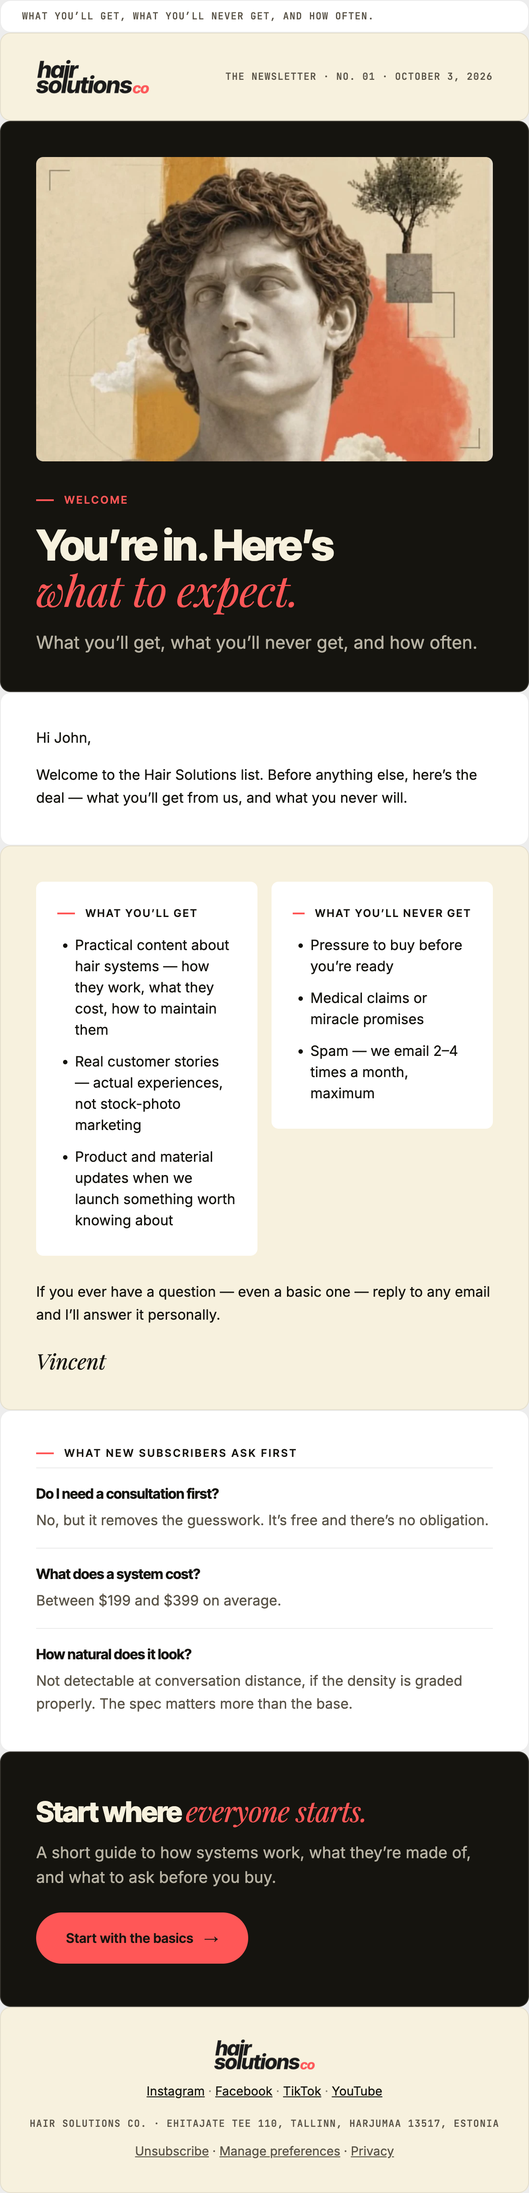
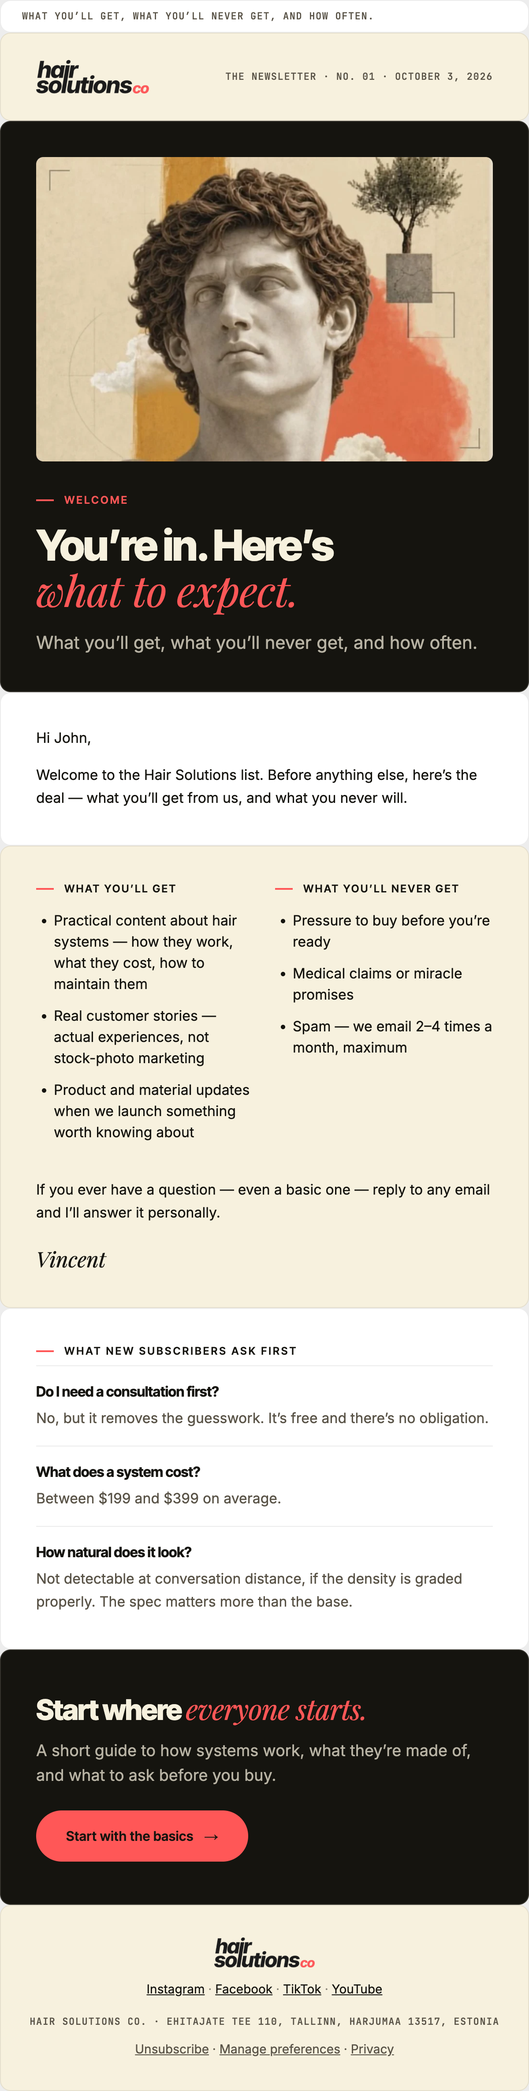
W-1 as Custom Liquid sections; remove white cards; record welcome workflows; add sections-only build rule

diff --git a/templates/email-blocks/w-1-get-never-get/section.html b/templates/email-blocks/w-1-get-never-get/section.html
@@ -2,10 +2,10 @@
 <table role="presentation" class="shell" width="100%" cellpadding="0" cellspacing="0" border="0" style="width:100%;max-width:600px;">
 <tr><td style="padding:0;">
 <table role="presentation" width="100%" cellpadding="0" cellspacing="0" border="0" style="border-collapse:separate;background-color:#f7f1de;border:1px solid #e5dfcd;border-radius:12px;">
-<tr><td class="pad" style="padding:40px;"><table role="presentation" width="100%" cellpadding="0" cellspacing="0" border="0"><tr><td class="stack" width="50%" valign="top" style="width:50%;vertical-align:top;padding:0 8px 0 0px;"><table role="presentation" width="100%" cellpadding="0" cellspacing="0" border="0" style="border-collapse:separate;background-color:#ffffff;border-radius:8px;"><tr><td style="padding:28px 24px 16px 24px;"><table role="presentation" cellpadding="0" cellspacing="0" border="0" style="margin:0 0 16px 0;">
+<tr><td class="pad" style="padding:40px;"><table role="presentation" width="100%" cellpadding="0" cellspacing="0" border="0"><tr><td class="stack" width="50%" valign="top" style="width:50%;vertical-align:top;padding:0 12px 0 0px;"><table role="presentation" width="100%" cellpadding="0" cellspacing="0" border="0"><tr><td style="padding:0;"><table role="presentation" cellpadding="0" cellspacing="0" border="0" style="margin:0 0 16px 0;">
 <tr><td width="20" style="width:20px;vertical-align:middle;"><div style="height:2px;line-height:2px;font-size:0;background-color:#ff5757;">&nbsp;</div></td>
 <td style="padding-left:12px;font-family:'Inter Tight',Arial,Helvetica,sans-serif;font-size:12px;line-height:16px;font-weight:600;letter-spacing:1.6px;text-transform:uppercase;color:#15140f;white-space:nowrap;">What you&rsquo;ll get</td></tr>
-</table><ul style="margin:0;padding:0 0 0 20px;"><li style="margin:0 0 12px 0;font-family:'Inter',Arial,Helvetica,sans-serif;font-size:16px;line-height:24px;color:#15140f;">Practical content about hair systems &mdash; how they work, what they cost, how to maintain them</li><li style="margin:0 0 12px 0;font-family:'Inter',Arial,Helvetica,sans-serif;font-size:16px;line-height:24px;color:#15140f;">Real customer stories &mdash; actual experiences, not stock-photo marketing</li><li style="margin:0 0 12px 0;font-family:'Inter',Arial,Helvetica,sans-serif;font-size:16px;line-height:24px;color:#15140f;">Product and material updates when we launch something worth knowing about</li></ul></td></tr></table></td><td class="stack" width="50%" valign="top" style="width:50%;vertical-align:top;padding:0 0px 0 8px;"><table role="presentation" width="100%" cellpadding="0" cellspacing="0" border="0" style="border-collapse:separate;background-color:#ffffff;border-radius:8px;"><tr><td style="padding:28px 24px 16px 24px;"><table role="presentation" cellpadding="0" cellspacing="0" border="0" style="margin:0 0 16px 0;">
+</table><ul style="margin:0;padding:0 0 0 20px;"><li style="margin:0 0 12px 0;font-family:'Inter',Arial,Helvetica,sans-serif;font-size:16px;line-height:24px;color:#15140f;">Practical content about hair systems &mdash; how they work, what they cost, how to maintain them</li><li style="margin:0 0 12px 0;font-family:'Inter',Arial,Helvetica,sans-serif;font-size:16px;line-height:24px;color:#15140f;">Real customer stories &mdash; actual experiences, not stock-photo marketing</li><li style="margin:0 0 12px 0;font-family:'Inter',Arial,Helvetica,sans-serif;font-size:16px;line-height:24px;color:#15140f;">Product and material updates when we launch something worth knowing about</li></ul></td></tr></table></td><td class="stack" width="50%" valign="top" style="width:50%;vertical-align:top;padding:0 0px 0 12px;"><table role="presentation" width="100%" cellpadding="0" cellspacing="0" border="0"><tr><td style="padding:0;"><table role="presentation" cellpadding="0" cellspacing="0" border="0" style="margin:0 0 16px 0;">
 <tr><td width="20" style="width:20px;vertical-align:middle;"><div style="height:2px;line-height:2px;font-size:0;background-color:#ff5757;">&nbsp;</div></td>
 <td style="padding-left:12px;font-family:'Inter Tight',Arial,Helvetica,sans-serif;font-size:12px;line-height:16px;font-weight:600;letter-spacing:1.6px;text-transform:uppercase;color:#15140f;white-space:nowrap;">What you&rsquo;ll never get</td></tr>
 </table><ul style="margin:0;padding:0 0 0 20px;"><li style="margin:0 0 12px 0;font-family:'Inter',Arial,Helvetica,sans-serif;font-size:16px;line-height:24px;color:#15140f;">Pressure to buy before you&rsquo;re ready</li><li style="margin:0 0 12px 0;font-family:'Inter',Arial,Helvetica,sans-serif;font-size:16px;line-height:24px;color:#15140f;">Medical claims or miracle promises</li><li style="margin:0 0 12px 0;font-family:'Inter',Arial,Helvetica,sans-serif;font-size:16px;line-height:24px;color:#15140f;">Spam &mdash; we email 2&ndash;4 times a month, maximum</li></ul></td></tr></table></td></tr></table><div style="height:28px;line-height:28px;font-size:0;">&nbsp;</div><p style="margin:0 0 24px 0;font-family:'Inter',Arial,Helvetica,sans-serif;font-size:16px;line-height:26px;font-weight:400;color:#15140f;text-align:left;">If you ever have a question &mdash; even a basic one &mdash; reply to any email and I&rsquo;ll answer it personally.</p><p style="margin:0 0 0px 0;font-family:'Playfair Display',Georgia,'Times New Roman',serif;font-size:24px;line-height:30px;font-weight:400;color:#15140f;text-align:left;font-style:italic;">Vincent</p></td></tr>

diff --git a/templates/emails/w-1-welcome/custom-liquid/05.html b/templates/emails/w-1-welcome/custom-liquid/05.html
@@ -1,0 +1,15 @@
+<table role="presentation" width="100%" cellpadding="0" cellspacing="0" border="0" style="background-color:transparent;"><tr><td align="center" style="padding:0;">
+<table role="presentation" class="shell" width="100%" cellpadding="0" cellspacing="0" border="0" style="width:100%;max-width:600px;">
+<tr><td style="padding:0;">
+<table role="presentation" width="100%" cellpadding="0" cellspacing="0" border="0" style="border-collapse:separate;background-color:#f7f1de;border:1px solid #e5dfcd;border-radius:12px;">
+<tr><td class="pad" style="padding:40px;"><table role="presentation" width="100%" cellpadding="0" cellspacing="0" border="0"><tr><td class="stack" width="50%" valign="top" style="width:50%;vertical-align:top;padding:0 12px 0 0px;"><table role="presentation" width="100%" cellpadding="0" cellspacing="0" border="0"><tr><td style="padding:0;"><table role="presentation" cellpadding="0" cellspacing="0" border="0" style="margin:0 0 16px 0;">
+<tr><td width="20" style="width:20px;vertical-align:middle;"><div style="height:2px;line-height:2px;font-size:0;background-color:#ff5757;">&nbsp;</div></td>
+<td style="padding-left:12px;font-family:'Inter Tight',Arial,Helvetica,sans-serif;font-size:12px;line-height:16px;font-weight:600;letter-spacing:1.6px;text-transform:uppercase;color:#15140f;white-space:nowrap;">What you&rsquo;ll get</td></tr>
+</table><ul style="margin:0;padding:0 0 0 20px;"><li style="margin:0 0 12px 0;font-family:'Inter',Arial,Helvetica,sans-serif;font-size:16px;line-height:24px;color:#15140f;">Practical content about hair systems &mdash; how they work, what they cost, how to maintain them</li><li style="margin:0 0 12px 0;font-family:'Inter',Arial,Helvetica,sans-serif;font-size:16px;line-height:24px;color:#15140f;">Real customer stories &mdash; actual experiences, not stock-photo marketing</li><li style="margin:0 0 12px 0;font-family:'Inter',Arial,Helvetica,sans-serif;font-size:16px;line-height:24px;color:#15140f;">Product and material updates when we launch something worth knowing about</li></ul></td></tr></table></td><td class="stack" width="50%" valign="top" style="width:50%;vertical-align:top;padding:0 0px 0 12px;"><table role="presentation" width="100%" cellpadding="0" cellspacing="0" border="0"><tr><td style="padding:0;"><table role="presentation" cellpadding="0" cellspacing="0" border="0" style="margin:0 0 16px 0;">
+<tr><td width="20" style="width:20px;vertical-align:middle;"><div style="height:2px;line-height:2px;font-size:0;background-color:#ff5757;">&nbsp;</div></td>
+<td style="padding-left:12px;font-family:'Inter Tight',Arial,Helvetica,sans-serif;font-size:12px;line-height:16px;font-weight:600;letter-spacing:1.6px;text-transform:uppercase;color:#15140f;white-space:nowrap;">What you&rsquo;ll never get</td></tr>
+</table><ul style="margin:0;padding:0 0 0 20px;"><li style="margin:0 0 12px 0;font-family:'Inter',Arial,Helvetica,sans-serif;font-size:16px;line-height:24px;color:#15140f;">Pressure to buy before you&rsquo;re ready</li><li style="margin:0 0 12px 0;font-family:'Inter',Arial,Helvetica,sans-serif;font-size:16px;line-height:24px;color:#15140f;">Medical claims or miracle promises</li><li style="margin:0 0 12px 0;font-family:'Inter',Arial,Helvetica,sans-serif;font-size:16px;line-height:24px;color:#15140f;">Spam &mdash; we email 2&ndash;4 times a month, maximum</li></ul></td></tr></table></td></tr></table><div style="height:28px;line-height:28px;font-size:0;">&nbsp;</div><p style="margin:0 0 24px 0;font-family:'Inter',Arial,Helvetica,sans-serif;font-size:16px;line-height:26px;font-weight:400;color:#15140f;text-align:left;">If you ever have a question &mdash; even a basic one &mdash; reply to any email and I&rsquo;ll answer it personally.</p><p style="margin:0 0 0px 0;font-family:'Playfair Display',Georgia,'Times New Roman',serif;font-size:24px;line-height:30px;font-weight:400;color:#15140f;text-align:left;font-style:italic;">Vincent</p></td></tr>
+</table>
+</td></tr>
+</table>
+</td></tr></table>

diff --git a/templates/emails/w-1-welcome/custom-liquid/06.html b/templates/emails/w-1-welcome/custom-liquid/06.html
@@ -1,0 +1,16 @@
+<table role="presentation" width="100%" cellpadding="0" cellspacing="0" border="0" style="background-color:transparent;"><tr><td align="center" style="padding:0;">
+<table role="presentation" class="shell" width="100%" cellpadding="0" cellspacing="0" border="0" style="width:100%;max-width:600px;">
+<tr><td style="padding:0;">
+<table role="presentation" width="100%" cellpadding="0" cellspacing="0" border="0" style="border-collapse:separate;background-color:#ffffff;border:1px solid #ececec;border-radius:12px;">
+<tr><td class="pad" style="padding:40px 40px 22px 40px;"><table role="presentation" cellpadding="0" cellspacing="0" border="0" style="margin:0 0 8px 0;">
+<tr><td width="20" style="width:20px;vertical-align:middle;"><div style="height:2px;line-height:2px;font-size:0;background-color:#ff5757;">&nbsp;</div></td>
+<td style="padding-left:12px;font-family:'Inter Tight',Arial,Helvetica,sans-serif;font-size:12px;line-height:16px;font-weight:600;letter-spacing:2px;text-transform:uppercase;color:#15140f;white-space:nowrap;">What new subscribers ask first</td></tr>
+</table><table role="presentation" width="100%" cellpadding="0" cellspacing="0" border="0" style="border-collapse:collapse;">
+<tr><td style="padding:18px 0 18px 0;border-top:1px solid #ececec;"><p style="margin:0 0 6px 0;font-family:'Inter Tight',Arial,Helvetica,sans-serif;font-size:16px;line-height:22px;font-weight:700;letter-spacing:-0.3px;color:#15140f;text-align:left;">Do I need a consultation first?</p><p style="margin:0;font-family:'Inter',Arial,Helvetica,sans-serif;font-size:16px;line-height:26px;font-weight:400;color:#5a5448;text-align:left;">No, but it removes the guesswork. It&rsquo;s free and there&rsquo;s no obligation.</p></td></tr>
+<tr><td style="padding:18px 0 18px 0;border-top:1px solid #ececec;"><p style="margin:0 0 6px 0;font-family:'Inter Tight',Arial,Helvetica,sans-serif;font-size:16px;line-height:22px;font-weight:700;letter-spacing:-0.3px;color:#15140f;text-align:left;">What does a system cost?</p><p style="margin:0;font-family:'Inter',Arial,Helvetica,sans-serif;font-size:16px;line-height:26px;font-weight:400;color:#5a5448;text-align:left;">Between $199 and $399 on average.</p></td></tr>
+<tr><td style="padding:18px 0 18px 0;border-top:1px solid #ececec;"><p style="margin:0 0 6px 0;font-family:'Inter Tight',Arial,Helvetica,sans-serif;font-size:16px;line-height:22px;font-weight:700;letter-spacing:-0.3px;color:#15140f;text-align:left;">How natural does it look?</p><p style="margin:0;font-family:'Inter',Arial,Helvetica,sans-serif;font-size:16px;line-height:26px;font-weight:400;color:#5a5448;text-align:left;">Not detectable at conversation distance, if the density is graded properly. The spec matters more than the base.</p></td></tr>
+</table></td></tr>
+</table>
+</td></tr>
+</table>
+</td></tr></table>

diff --git a/templates/emails/w-1-welcome/custom-liquid/08.html b/templates/emails/w-1-welcome/custom-liquid/08.html
@@ -1,0 +1,9 @@
+<table role="presentation" width="100%" cellpadding="0" cellspacing="0" border="0" style="background-color:transparent;"><tr><td align="center" style="padding:0;">
+<table role="presentation" class="shell" width="100%" cellpadding="0" cellspacing="0" border="0" style="width:100%;max-width:600px;">
+<tr><td style="padding:0;">
+<table role="presentation" width="100%" cellpadding="0" cellspacing="0" border="0" style="border-collapse:separate;background-color:#f7f1de;border:1px solid #e5dfcd;border-radius:12px;">
+<tr><td class="pad-sm" style="padding:36px 24px 36px 24px;"><img src="https://cdn.shopify.com/s/files/1/0276/9115/5508/files/hsc-email-logo-ink.png" width="114" height="34" alt="Hair Solutions Co." style="display:block;margin:0 auto 14px auto;border:0;width:114px;height:34px;"><p style="margin:0 0 18px 0;font-family:'Inter',Arial,Helvetica,sans-serif;font-size:14px;line-height:21px;font-weight:400;color:#15140f;text-align:center;"><a href="https://www.instagram.com/hairsolutions_co" target="_blank" style="color:#15140f;text-decoration:underline;">Instagram</a> <span style="color:#15140f;opacity:0.5;">&middot;</span> <a href="https://www.facebook.com/hairsolutions.company" target="_blank" style="color:#15140f;text-decoration:underline;">Facebook</a> <span style="color:#15140f;opacity:0.5;">&middot;</span> <a href="https://www.tiktok.com/@hairsolutionsco" target="_blank" style="color:#15140f;text-decoration:underline;">TikTok</a> <span style="color:#15140f;opacity:0.5;">&middot;</span> <a href="https://www.youtube.com/@hairsolutions_co" target="_blank" style="color:#15140f;text-decoration:underline;">YouTube</a></p><p style="margin:0 0 12px 0;font-family:'JetBrains Mono','Courier New',monospace;font-size:11px;line-height:17px;font-weight:500;letter-spacing:0.8px;text-transform:uppercase;color:#5a5448;text-align:center;">Hair Solutions Co. &middot; Ehitajate tee 110, Tallinn, Harjumaa 13517, Estonia</p><p style="margin:0;font-family:'Inter',Arial,Helvetica,sans-serif;font-size:14px;line-height:21px;font-weight:400;color:#5a5448;text-align:center;"><a href="{{ unsubscribe_url }}" target="_blank" style="color:#5a5448;text-decoration:underline;">Unsubscribe</a> &middot; <a href="https://hairsolutions.co/pages/edit-notifications" target="_blank" style="color:#5a5448;text-decoration:underline;">Manage preferences</a> &middot; <a href="https://hairsolutions.co/policies/privacy-policy" target="_blank" style="color:#5a5448;text-decoration:underline;">Privacy</a></p><!-- {{ unsubscribe_link }} --></td></tr>
+</table>
+</td></tr>
+</table>
+</td></tr></table>

diff --git a/templates/emails/w-1-welcome/custom-liquid/01.html b/templates/emails/w-1-welcome/custom-liquid/01.html
@@ -1,0 +1,28 @@
+<link href="https://fonts.googleapis.com/css2?family=Inter:wght@400;600;700&amp;family=Inter+Tight:wght@600;700;800&amp;family=JetBrains+Mono:wght@500;700&amp;family=Playfair+Display:ital,wght@1,400;1,500&amp;display=swap" rel="stylesheet">
+<style>
+  body { margin:0 !important; padding:0 !important; background-color:transparent; -webkit-text-size-adjust:100%; -ms-text-size-adjust:100%; }
+  table, td { mso-table-lspace:0pt; mso-table-rspace:0pt; }
+  img { -ms-interpolation-mode:bicubic; }
+  a { text-decoration-skip-ink:auto; }
+  .unsub a { color:#b8b3a4 !important; text-decoration:underline !important; }
+  @media only screen and (max-width:480px) {
+    .shell { width:100% !important; }
+    .pad { padding:32px 22px !important; }
+    .pad-sm { padding-left:16px !important; padding-right:16px !important; }
+    .hero-h { font-size:36px !important; line-height:37px !important; letter-spacing:-1.2px !important; }
+    .btn { width:100% !important; } .btn a { display:block !important; text-align:center !important; }
+    .stack { display:block !important; width:100% !important; padding:0 !important; }
+    .stack-gap { padding-top:20px !important; }
+    .fluid { width:100% !important; height:auto !important; }
+    .pad-copy { padding:0 4px !important; }
+  }
+</style>
+<table role="presentation" width="100%" cellpadding="0" cellspacing="0" border="0" style="background-color:transparent;"><tr><td align="center" style="padding:0;">
+<table role="presentation" class="shell" width="100%" cellpadding="0" cellspacing="0" border="0" style="width:100%;max-width:600px;">
+<tr><td style="padding:0;">
+<table role="presentation" width="100%" cellpadding="0" cellspacing="0" border="0" style="border-collapse:separate;background-color:#ffffff;border:1px solid #ececec;border-radius:12px;">
+<tr><td class="pad-sm" style="padding:9px 24px;"><table role="presentation" width="100%" cellpadding="0" cellspacing="0" border="0"><tr><td style="font-family:'JetBrains Mono','Courier New',monospace;font-size:11px;line-height:17px;letter-spacing:0.8px;text-transform:uppercase;color:#5a5448;vertical-align:middle;">What you&rsquo;ll get, what you&rsquo;ll never get, and how often.</td></tr></table></td></tr>
+</table>
+</td></tr>
+</table>
+</td></tr></table>

diff --git a/templates/emails/w-1-welcome/custom-liquid/03.html b/templates/emails/w-1-welcome/custom-liquid/03.html
@@ -1,0 +1,12 @@
+<table role="presentation" width="100%" cellpadding="0" cellspacing="0" border="0" style="background-color:transparent;"><tr><td align="center" style="padding:0;">
+<table role="presentation" class="shell" width="100%" cellpadding="0" cellspacing="0" border="0" style="width:100%;max-width:600px;">
+<tr><td style="padding:0;">
+<table role="presentation" width="100%" cellpadding="0" cellspacing="0" border="0" style="border-collapse:separate;background-color:#15140f;border:1px solid #35332c;border-radius:12px;">
+<tr><td class="pad" style="padding:40px;"><img src="https://cdn.shopify.com/s/files/1/0276/9115/5508/files/hsc-email-w1-hero-marble.jpg" width="518" height="345" alt="Marble bust with curly hair against a cream, coral and ochre collage" style="display:block;width:518px;height:345px;border:0;border-radius:8px;"><div style="height:36px;line-height:36px;font-size:0;">&nbsp;</div><table role="presentation" cellpadding="0" cellspacing="0" border="0" style="margin:0 0 18px 0;">
+<tr><td width="20" style="width:20px;vertical-align:middle;"><div style="height:2px;line-height:2px;font-size:0;background-color:#ff5757;">&nbsp;</div></td>
+<td style="padding-left:12px;font-family:'Inter Tight',Arial,Helvetica,sans-serif;font-size:12px;line-height:16px;font-weight:600;letter-spacing:2px;text-transform:uppercase;color:#ff5757;white-space:nowrap;">Welcome</td></tr>
+</table><h1 class="hero-h" style="margin:0 0 18px 0;font-family:'Inter Tight',Arial,Helvetica,sans-serif;font-size:48px;line-height:50px;font-weight:800;letter-spacing:-1.8px;color:#f7f1de;text-align:left;">You&rsquo;re in. Here&rsquo;s<br><span style="font-family:'Playfair Display',Georgia,'Times New Roman',serif;font-style:italic;font-weight:400;color:#ff5757;letter-spacing:-0.5px;font-size:48px;">what to expect.</span></h1><p style="margin:0 0 0px 0;font-family:'Inter',Arial,Helvetica,sans-serif;font-size:20px;line-height:30px;font-weight:400;color:#b8b3a4;text-align:left;">What you&rsquo;ll get, what you&rsquo;ll never get, and how often.</p></td></tr>
+</table>
+</td></tr>
+</table>
+</td></tr></table>

diff --git a/templates/emails/w-1-welcome/custom-liquid/07.html b/templates/emails/w-1-welcome/custom-liquid/07.html
@@ -1,0 +1,12 @@
+<table role="presentation" width="100%" cellpadding="0" cellspacing="0" border="0" style="background-color:transparent;"><tr><td align="center" style="padding:0;">
+<table role="presentation" class="shell" width="100%" cellpadding="0" cellspacing="0" border="0" style="width:100%;max-width:600px;">
+<tr><td style="padding:0;">
+<table role="presentation" width="100%" cellpadding="0" cellspacing="0" border="0" style="border-collapse:separate;background-color:#15140f;border:1px solid #35332c;border-radius:12px;">
+<tr><td class="pad" style="padding:48px 40px 48px 40px;"><h2 style="margin:0 0 14px 0;font-family:'Inter Tight',Arial,Helvetica,sans-serif;font-size:32px;line-height:36px;font-weight:800;letter-spacing:-1px;color:#f7f1de;text-align:left;">Start where <span style="font-family:'Playfair Display',Georgia,'Times New Roman',serif;font-style:italic;font-weight:400;color:#ff5757;letter-spacing:-0.5px;font-size:32px;">everyone starts.</span></h2><p style="margin:0 0 26px 0;font-family:'Inter',Arial,Helvetica,sans-serif;font-size:18px;line-height:28px;font-weight:400;color:#b8b3a4;text-align:left;">A short guide to how systems work, what they&rsquo;re made of, and what to ask before you buy.</p><table role="presentation" class="btn" cellpadding="0" cellspacing="0" border="0" style="border-collapse:separate;margin:0;">
+<tr><td style="border-radius:999px;background-color:#ff5757;">
+<a href="https://hairsolutions.co" target="_blank" style="display:inline-block;padding:0 34px;line-height:58px;font-family:'Inter Tight',Arial,Helvetica,sans-serif;font-size:15px;font-weight:600;letter-spacing:0.3px;color:#15140f;text-decoration:none;border-radius:999px;white-space:nowrap;">Start with the basics<span style="padding-left:12px;font-family:'Inter',Arial,Helvetica,sans-serif;font-size:16px;">&rarr;</span></a>
+</td></tr></table></td></tr>
+</table>
+</td></tr>
+</table>
+</td></tr></table>

diff --git a/templates/emails/w-1-welcome/custom-liquid/02.html b/templates/emails/w-1-welcome/custom-liquid/02.html
@@ -1,0 +1,9 @@
+<table role="presentation" width="100%" cellpadding="0" cellspacing="0" border="0" style="background-color:transparent;"><tr><td align="center" style="padding:0;">
+<table role="presentation" class="shell" width="100%" cellpadding="0" cellspacing="0" border="0" style="width:100%;max-width:600px;">
+<tr><td style="padding:0;">
+<table role="presentation" width="100%" cellpadding="0" cellspacing="0" border="0" style="border-collapse:separate;background-color:#f7f1de;border:1px solid #e5dfcd;border-radius:12px;">
+<tr><td class="pad" style="padding:30px 40px;"><table role="presentation" width="100%" cellpadding="0" cellspacing="0" border="0"><tr><td valign="middle" style="vertical-align:middle;"><img src="https://cdn.shopify.com/s/files/1/0276/9115/5508/files/hsc-email-logo-ink.png" width="128" height="38" alt="Hair Solutions Co." style="display:block;border:0;width:128px;height:38px;"></td><td align="right" valign="middle" style="vertical-align:middle;padding-left:16px;font-family:'JetBrains Mono','Courier New',monospace;font-size:11px;line-height:17px;font-weight:500;letter-spacing:0.8px;text-transform:uppercase;color:#5a5448;text-align:right;">The newsletter &middot; No. 01 &middot; {{ "now" | date: "%B %-d, %Y" }}</td></tr></table></td></tr>
+</table>
+</td></tr>
+</table>
+</td></tr></table>

diff --git a/templates/emails/w-1-welcome/custom-liquid/04.html b/templates/emails/w-1-welcome/custom-liquid/04.html
@@ -1,0 +1,9 @@
+<table role="presentation" width="100%" cellpadding="0" cellspacing="0" border="0" style="background-color:transparent;"><tr><td align="center" style="padding:0;">
+<table role="presentation" class="shell" width="100%" cellpadding="0" cellspacing="0" border="0" style="width:100%;max-width:600px;">
+<tr><td style="padding:0;">
+<table role="presentation" width="100%" cellpadding="0" cellspacing="0" border="0" style="border-collapse:separate;background-color:#ffffff;border:1px solid #ececec;border-radius:12px;">
+<tr><td class="pad" style="padding:38px 40px 40px 40px;"><p style="margin:0 0 16px 0;font-family:'Inter',Arial,Helvetica,sans-serif;font-size:16px;line-height:26px;font-weight:400;color:#15140f;text-align:left;">Hi {{ customer.first_name | default: "there" }},</p><p style="margin:0 0 0px 0;font-family:'Inter',Arial,Helvetica,sans-serif;font-size:16px;line-height:26px;font-weight:400;color:#15140f;text-align:left;">Welcome to the Hair Solutions list. Before anything else, here&rsquo;s the deal &mdash; what you&rsquo;ll get from us, and what you never will.</p></td></tr>
+</table>
+</td></tr>
+</table>
+</td></tr></table>

diff --git a/templates/email-blocks/w-1-get-never-get/README.md b/templates/email-blocks/w-1-get-never-get/README.md
@@ -10,8 +10,12 @@
 | Liquid variables | — |
 | Shopify status | draft |
 | Placeholders | no |
-| Characters | 4170 |
+| Characters | 3982 |
 | Used by | [W-1](../../emails/w-1-welcome/) |
+
+## Preview
+
+<img src="preview.png" width="600" alt="">
 
 ## HTML
 
@@ -22,10 +26,10 @@ Source: [`section.html`](section.html). Copy from here or from the raw file.
 <table role="presentation" class="shell" width="100%" cellpadding="0" cellspacing="0" border="0" style="width:100%;max-width:600px;">
 <tr><td style="padding:0;">
 <table role="presentation" width="100%" cellpadding="0" cellspacing="0" border="0" style="border-collapse:separate;background-color:#f7f1de;border:1px solid #e5dfcd;border-radius:12px;">
-<tr><td class="pad" style="padding:40px;"><table role="presentation" width="100%" cellpadding="0" cellspacing="0" border="0"><tr><td class="stack" width="50%" valign="top" style="width:50%;vertical-align:top;padding:0 8px 0 0px;"><table role="presentation" width="100%" cellpadding="0" cellspacing="0" border="0" style="border-collapse:separate;background-color:#ffffff;border-radius:8px;"><tr><td style="padding:28px 24px 16px 24px;"><table role="presentation" cellpadding="0" cellspacing="0" border="0" style="margin:0 0 16px 0;">
+<tr><td class="pad" style="padding:40px;"><table role="presentation" width="100%" cellpadding="0" cellspacing="0" border="0"><tr><td class="stack" width="50%" valign="top" style="width:50%;vertical-align:top;padding:0 12px 0 0px;"><table role="presentation" width="100%" cellpadding="0" cellspacing="0" border="0"><tr><td style="padding:0;"><table role="presentation" cellpadding="0" cellspacing="0" border="0" style="margin:0 0 16px 0;">
 <tr><td width="20" style="width:20px;vertical-align:middle;"><div style="height:2px;line-height:2px;font-size:0;background-color:#ff5757;">&nbsp;</div></td>
 <td style="padding-left:12px;font-family:'Inter Tight',Arial,Helvetica,sans-serif;font-size:12px;line-height:16px;font-weight:600;letter-spacing:1.6px;text-transform:uppercase;color:#15140f;white-space:nowrap;">What you&rsquo;ll get</td></tr>
-</table><ul style="margin:0;padding:0 0 0 20px;"><li style="margin:0 0 12px 0;font-family:'Inter',Arial,Helvetica,sans-serif;font-size:16px;line-height:24px;color:#15140f;">Practical content about hair systems &mdash; how they work, what they cost, how to maintain them</li><li style="margin:0 0 12px 0;font-family:'Inter',Arial,Helvetica,sans-serif;font-size:16px;line-height:24px;color:#15140f;">Real customer stories &mdash; actual experiences, not stock-photo marketing</li><li style="margin:0 0 12px 0;font-family:'Inter',Arial,Helvetica,sans-serif;font-size:16px;line-height:24px;color:#15140f;">Product and material updates when we launch something worth knowing about</li></ul></td></tr></table></td><td class="stack" width="50%" valign="top" style="width:50%;vertical-align:top;padding:0 0px 0 8px;"><table role="presentation" width="100%" cellpadding="0" cellspacing="0" border="0" style="border-collapse:separate;background-color:#ffffff;border-radius:8px;"><tr><td style="padding:28px 24px 16px 24px;"><table role="presentation" cellpadding="0" cellspacing="0" border="0" style="margin:0 0 16px 0;">
+</table><ul style="margin:0;padding:0 0 0 20px;"><li style="margin:0 0 12px 0;font-family:'Inter',Arial,Helvetica,sans-serif;font-size:16px;line-height:24px;color:#15140f;">Practical content about hair systems &mdash; how they work, what they cost, how to maintain them</li><li style="margin:0 0 12px 0;font-family:'Inter',Arial,Helvetica,sans-serif;font-size:16px;line-height:24px;color:#15140f;">Real customer stories &mdash; actual experiences, not stock-photo marketing</li><li style="margin:0 0 12px 0;font-family:'Inter',Arial,Helvetica,sans-serif;font-size:16px;line-height:24px;color:#15140f;">Product and material updates when we launch something worth knowing about</li></ul></td></tr></table></td><td class="stack" width="50%" valign="top" style="width:50%;vertical-align:top;padding:0 0px 0 12px;"><table role="presentation" width="100%" cellpadding="0" cellspacing="0" border="0"><tr><td style="padding:0;"><table role="presentation" cellpadding="0" cellspacing="0" border="0" style="margin:0 0 16px 0;">
 <tr><td width="20" style="width:20px;vertical-align:middle;"><div style="height:2px;line-height:2px;font-size:0;background-color:#ff5757;">&nbsp;</div></td>
 <td style="padding-left:12px;font-family:'Inter Tight',Arial,Helvetica,sans-serif;font-size:12px;line-height:16px;font-weight:600;letter-spacing:1.6px;text-transform:uppercase;color:#15140f;white-space:nowrap;">What you&rsquo;ll never get</td></tr>
 </table><ul style="margin:0;padding:0 0 0 20px;"><li style="margin:0 0 12px 0;font-family:'Inter',Arial,Helvetica,sans-serif;font-size:16px;line-height:24px;color:#15140f;">Pressure to buy before you&rsquo;re ready</li><li style="margin:0 0 12px 0;font-family:'Inter',Arial,Helvetica,sans-serif;font-size:16px;line-height:24px;color:#15140f;">Medical claims or miracle promises</li><li style="margin:0 0 12px 0;font-family:'Inter',Arial,Helvetica,sans-serif;font-size:16px;line-height:24px;color:#15140f;">Spam &mdash; we email 2&ndash;4 times a month, maximum</li></ul></td></tr></table></td></tr></table><div style="height:28px;line-height:28px;font-size:0;">&nbsp;</div><p style="margin:0 0 24px 0;font-family:'Inter',Arial,Helvetica,sans-serif;font-size:16px;line-height:26px;font-weight:400;color:#15140f;text-align:left;">If you ever have a question &mdash; even a basic one &mdash; reply to any email and I&rsquo;ll answer it personally.</p><p style="margin:0 0 0px 0;font-family:'Playfair Display',Georgia,'Times New Roman',serif;font-size:24px;line-height:30px;font-weight:400;color:#15140f;text-align:left;font-style:italic;">Vincent</p></td></tr>

diff --git a/PROJECT.md b/PROJECT.md
@@ -9,6 +9,8 @@ Scope (Vincent): the first email of each series on the Figma "v6 · Reference" p
 - Verified Messaging variables (probe in a campaign preview): see `references/surfaces.md`. No "view in browser" variable exists, so that link is left out of every email.
 - Shopify: **NL-01 is a draft campaign** (Messaging, no segment, not scheduled; photo label synced 2026-10-04). WB-1 is attached to the WB Flow draft; W-1, WB-2 and RO-3 are not installed; C-0 is not created on purpose.
 - Flow (nothing turned on, all inactive drafts): (1) "WB win-back: 90 days without an order": Order created, Wait 7 776 000 s, Get customer data (Advanced query: this customer, orders on or after the day after the trigger order), Condition (at least one customer found whose id equals the order's customer id; the False branch, no newer order, sends WB-1 as a draft email). (2) "RO reorder: 60 days after last purchase": same graph with Wait 5 184 000 s and no email step (RO-1 has no design; RO-3 would be a later step). Untested: the `order_date` filter and the customer id extraction need one test run before activation. Stray drafts to delete (need Vincent's approval): "New Workflow" (Order fulfilled, Wait 7 776 000 s) and an earlier "New Workflow" (Order created, Wait, orphaned Condition). W-1 (trigger: newsletter sign-up or first order, whichever comes first) has no workflow yet.
+- W-1 welcome workflows (2026-10-04, drafted by Shopify Sidekick, inactive, tag "sidekick"): "Welcome email on email marketing subscribe" (Customer subscribed to email marketing → Condition tags = welcome-email-sent → Add customer tag welcome-email-sent → Send marketing email) and "Welcome email on first order" (Order created → Condition customer orders = 1 → Wait 2 minutes → same tag check → add tag → Send). W-1 is installed as a **sections** email (8 Custom Liquid sections, subject and preview text set, Header hidden, Content background transparent) in the subscribe workflow only. The first-order workflow's Send step still holds a Code your own draft (the email type cannot change; replacing the step needs Vincent's approval). The "What you'll get / never get" section lost its white cards at Vincent's request. A trigger-only stray "New Workflow" (Customer subscribed to email marketing) and an orphaned Code your own "Untitled Activity" draft email also exist.
+- Build rule added (Vincent, 2026-10-04): every email is built from Custom Liquid sections one at a time in the Shopify editor (see `AGENTS.md`).
 - Series triggers (Vincent, 2026-10-04): WB starts after 90 days without any order; RO starts 60 days after the last purchase. Lead times: stock 5-7 days, custom 8-10 weeks (RO-3 and C-0 now print 8-10 weeks).
 - WB-1 (checking in) added: copy from the older Figma frame; subject "Checking in — Vincent here", preview text and sign-off from the Notion emails master. RO-1 has no design.
 - Review photos are product shots; captions now say "Product photo".

diff --git a/templates/emails/w-1-welcome/README.md b/templates/emails/w-1-welcome/README.md
@@ -6,13 +6,13 @@
 |---|---|
 | Code | W-1 |
 | Journey | welcome |
-| Surface | Messaging · Code your own |
-| Where in Shopify | Not installed yet. Planned: Flow › Welcome series › Send marketing email #1 (Messaging, Code your own) |
+| Surface | Messaging · Custom Liquid sections |
+| Where in Shopify | Flow › "Welcome email on email marketing subscribe" (inactive draft) › Send marketing email (Messaging, Custom Liquid sections, 8 sections). "Welcome email on first order" still holds an earlier Code your own draft of W-1. |
 | Subject | `You’re in. Here’s what to expect.` |
 | Preview text | What you’ll get, what you’ll never get, and how often. |
-| Timing | Immediately after a customer subscribes to email marketing |
-| Shopify status | not-installed |
-| Shopify matches this repo | **no — re-sync Shopify from the file below** |
+| Timing | Immediately after a customer subscribes to email marketing or places their first order, whichever comes first (two workflows share a welcome-email-sent customer tag) |
+| Shopify status | draft |
+| Shopify matches this repo | yes |
 
 ## Sections (assembly order)
 
@@ -28,7 +28,16 @@
 
 ## Code to install
 
-- [`template.html`](template.html)
+One Shopify Messaging **Custom Liquid** section per file, in this order:
+
+- [`custom-liquid/01.html`](custom-liquid/01.html)
+- [`custom-liquid/02.html`](custom-liquid/02.html)
+- [`custom-liquid/03.html`](custom-liquid/03.html)
+- [`custom-liquid/04.html`](custom-liquid/04.html)
+- [`custom-liquid/05.html`](custom-liquid/05.html)
+- [`custom-liquid/06.html`](custom-liquid/06.html)
+- [`custom-liquid/07.html`](custom-liquid/07.html)
+- [`custom-liquid/08.html`](custom-liquid/08.html)
 
 ## Open blockers
 
@@ -36,6 +45,9 @@
 - Hero image is a crop of the Figma capture; the original file is not available.
 - Design's 'View in browser' link is omitted: Shopify Messaging has no variable for it.
 - Masthead [ISSUE DATE] is a Liquid date at send time; confirm that is wanted for a welcome email.
+- The 'Welcome email on first order' workflow's Send step holds a Code your own draft; it needs a new sections-based Send step (deleting the old step needs Vincent's approval).
+- Both welcome workflows were drafted by Shopify Sidekick: they add the customer tag welcome-email-sent, and the tag check uses 'Tags is equal to'. Review before activation; first-order buyers who never opted in to email marketing are skipped by Messaging.
+- Sections email shows Shopify's own legal footer under the library footer (as CR-1 does); the Header section is hidden and Content background is transparent.
 
 ## Preview
 
